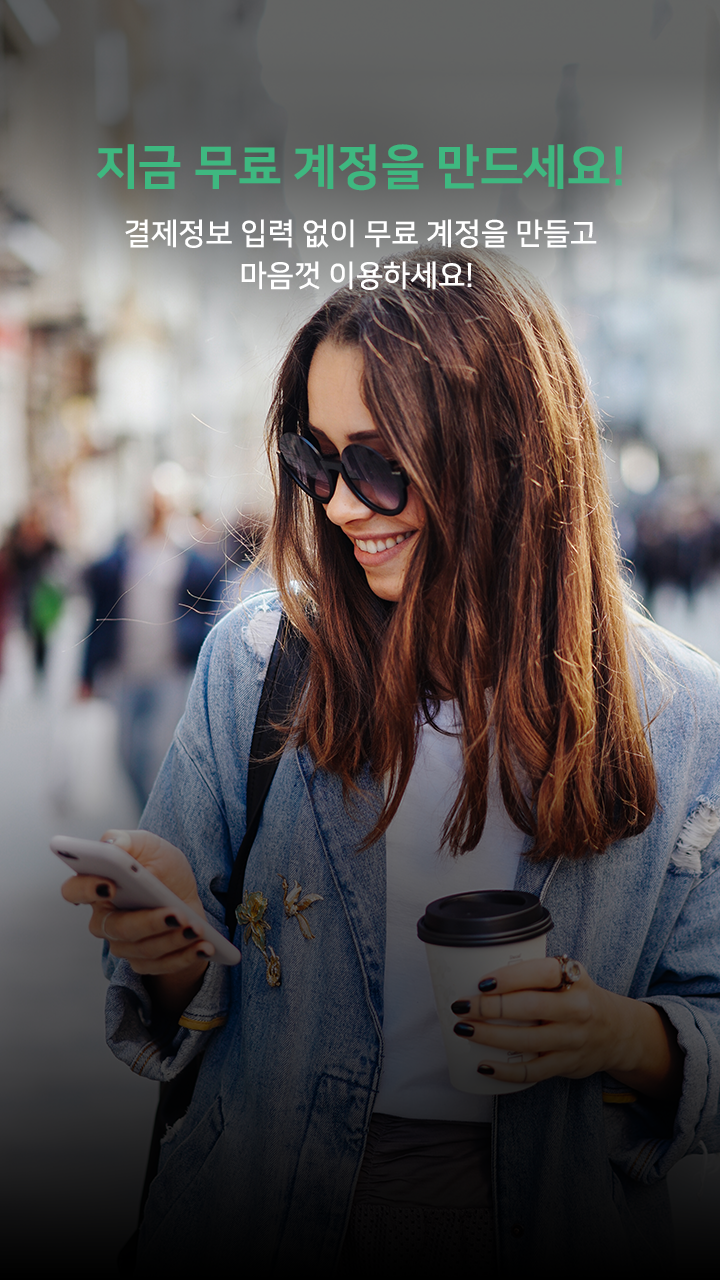
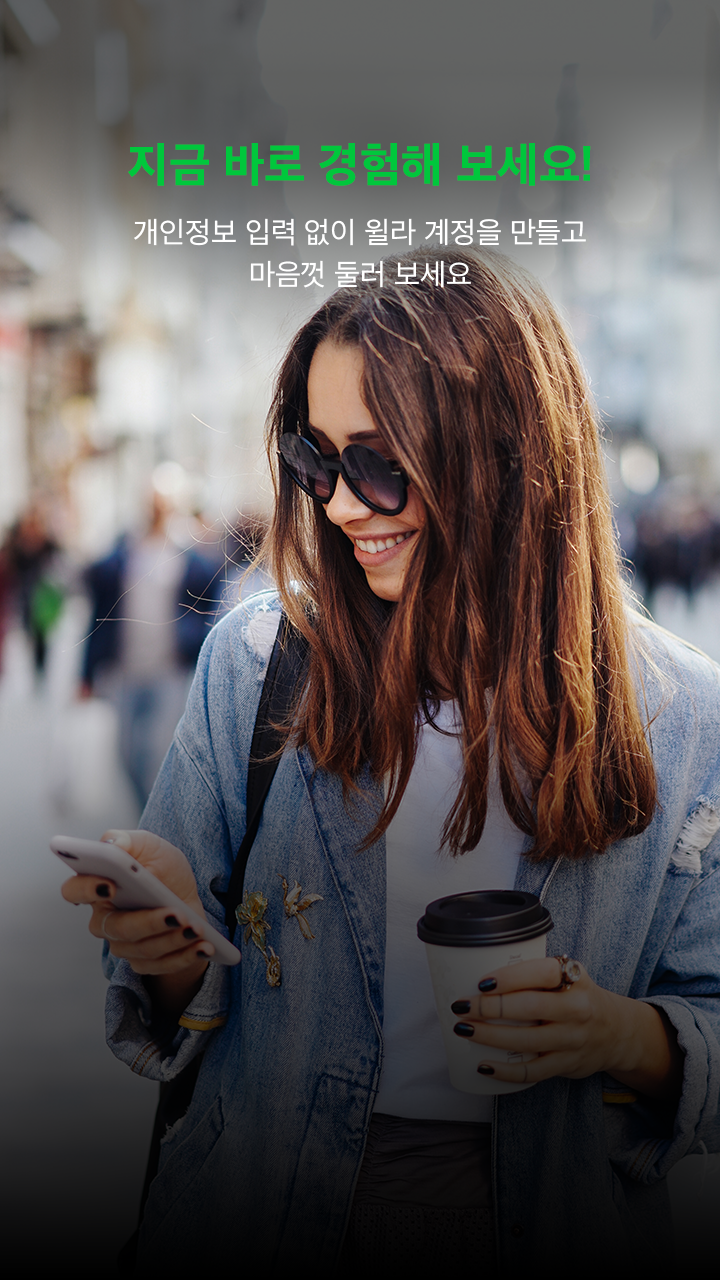
[서비스/요청] 문구 수정 요청 181205 , 텍스트 이미지 교체 요청 건

Changed region(s): [[0.1222, 0.0938, 0.8861, 0.25]]

diff --git a/src/scripts/pages/membership/MembershipPage.js b/src/scripts/pages/membership/MembershipPage.js
@@ -480,8 +480,8 @@ export default class MembershipPage extends React.Component {
                 </View>
               </View>
             ) : (
-              undefined
-            )}
+                undefined
+              )}
 
             {globalStore.currentMembership.type === 2 ? (
               <View style={styles.membershipPremiumBox}>
@@ -523,8 +523,8 @@ export default class MembershipPage extends React.Component {
                 </View>
               </View>
             ) : (
-              undefined
-            )}
+                undefined
+              )}
 
             {globalStore.currentMembership.type === 3 ? (
               <View style={styles.membershipBox}>
@@ -555,8 +555,8 @@ export default class MembershipPage extends React.Component {
                 </View>
               </View>
             ) : (
-              undefined
-            )}
+                undefined
+              )}
 
             {globalStore.currentMembership.type === 4 ? (
               <View style={styles.membershipAudioBookBox}>
@@ -595,32 +595,32 @@ export default class MembershipPage extends React.Component {
                 </View>
               </View>
             ) : (
-              undefined
-            )}
+                undefined
+              )}
             {MembershipRule}
 
             {Platform.OS === 'android' &&
-            globalStore.currentMembership.stop_payment === true ? (
-              <View style={styles.cancelButton} borderRadius={5}>
-                <Text style={styles.cancelButtonText}>멤버십 구독 해지됨</Text>
-              </View>
-            ) : (
-              <TouchableOpacity
-                onPress={() => this.cancel_membership_confirm()}
-              >
+              globalStore.currentMembership.stop_payment === true ? (
                 <View style={styles.cancelButton} borderRadius={5}>
-                  {Platform.OS === 'ios' ? (
-                    <Text style={styles.cancelButtonText}>
-                      Apple 구독 취소 또는 변경
-                    </Text>
-                  ) : (
-                    <Text style={styles.cancelButtonText}>
-                      멤버십 구독 해지
-                    </Text>
-                  )}
+                  <Text style={styles.cancelButtonText}>멤버십 구독 해지됨</Text>
                 </View>
-              </TouchableOpacity>
-            )}
+              ) : (
+                <TouchableOpacity
+                  onPress={() => this.cancel_membership_confirm()}
+                >
+                  <View style={styles.cancelButton} borderRadius={5}>
+                    {Platform.OS === 'ios' ? (
+                      <Text style={styles.cancelButtonText}>
+                        Apple 구독 취소 또는 변경
+                    </Text>
+                    ) : (
+                        <Text style={styles.cancelButtonText}>
+                          멤버십 구독 해지
+                    </Text>
+                      )}
+                  </View>
+                </TouchableOpacity>
+              )}
           </View>
         </ScrollView>
       </SafeAreaView>
@@ -1104,10 +1104,10 @@ export default class MembershipPage extends React.Component {
                   show_popup: true
                 });
               }}
-              /* onPress={() => this.props.navigation.dismiss()} */
+            /* onPress={() => this.props.navigation.dismiss()} */
             >
               <Text style={styles.tripAroundButton}>
-                무료 계정으로 둘러보기
+                윌라 계정으로 둘러보기
               </Text>
             </TouchableOpacity>
           </View>

diff --git a/src/scripts/pages/membership/MembershipDetailPage.js b/src/scripts/pages/membership/MembershipDetailPage.js
@@ -160,7 +160,7 @@ export default class MembershipDetailPage extends React.Component {
                           : styles.tabItemText
                       }
                     >
-                      오디오북클럽
+                      오디오북
                     </Text>
                   </View>
                 </TouchableOpacity>
@@ -186,7 +186,7 @@ export default class MembershipDetailPage extends React.Component {
                           : styles.tabItemText
                       }
                     >
-                      캠퍼스
+                      클래스
                     </Text>
                   </View>
                 </TouchableOpacity>
@@ -490,7 +490,7 @@ export default class MembershipDetailPage extends React.Component {
               <View>
                 <View style={styles.sectionHr} />
                 <Text style={styles.sectionTitle}>
-                  오디오북클럽 멤버십 권한
+                  오디오북 멤버십 권한
                 </Text>
                 <View style={styles.sectionList}>
                   <View style={styles.sectionListItem}>
@@ -744,7 +744,7 @@ export default class MembershipDetailPage extends React.Component {
             {this.tabStatus === 'campus' && (
               <View>
                 <View style={styles.sectionHr} />
-                <Text style={styles.sectionTitle}>캠퍼스 멤버십의 권한</Text>
+                <Text style={styles.sectionTitle}>클래스 멤버십의 권한</Text>
                 <View style={styles.sectionList}>
                   <View style={styles.sectionListItem}>
                     <View

diff --git a/src/scripts/pages/auth/SignUpLandingPage.js b/src/scripts/pages/auth/SignUpLandingPage.js
@@ -147,7 +147,7 @@ class SignUpLandingPage extends React.Component {
     });
   }
 
-  componentWillUnmount() {}
+  componentWillUnmount() { }
 
   onAccessToken(type, token) {
     let { navigation } = this.props;
@@ -276,7 +276,7 @@ class SignUpLandingPage extends React.Component {
 
           <View style={styles.ruleWrap}>
             <View style={styles.ruleTextContainer}>
-              <Text style={styles.ruleText}>무료 계정을 생성하시면 월라</Text>
+              <Text style={styles.ruleText}>윌라 계정을 생성하시면 월라</Text>
               <TouchableOpacity
                 activeOpacity={0.9}
                 onPress={() => this.props.navigation.navigate('PolicyPage')}

diff --git a/src/scripts/pages/auth/EmailSignUpForm.js b/src/scripts/pages/auth/EmailSignUpForm.js
@@ -478,7 +478,7 @@ class EmailSignUpForm extends Component {
               <View style={styles.ruleWrap}>
                 <View style={styles.ruleTextContainer}>
                   <Text style={styles.ruleText}>
-                    무료 계정을 생성하시면 월라
+                    윌라 계정을 생성하시면 월라
                   </Text>
                   <TouchableOpacity
                     activeOpacity={0.9}

diff --git a/src/scripts/components/auth/EmailAuthPack.js b/src/scripts/components/auth/EmailAuthPack.js
@@ -185,7 +185,7 @@ class EmailAuthPack extends Component {
               activeOpacity={0.9}
               onPress={() => this.props.onNavigate('SignUpPage')}
             >
-              <Text style={styles.btnLinkText}>무료 계정만들기</Text>
+              <Text style={styles.btnLinkText}>윌라 계정만들기</Text>
             </TouchableOpacity>
           </View>
         </View>
